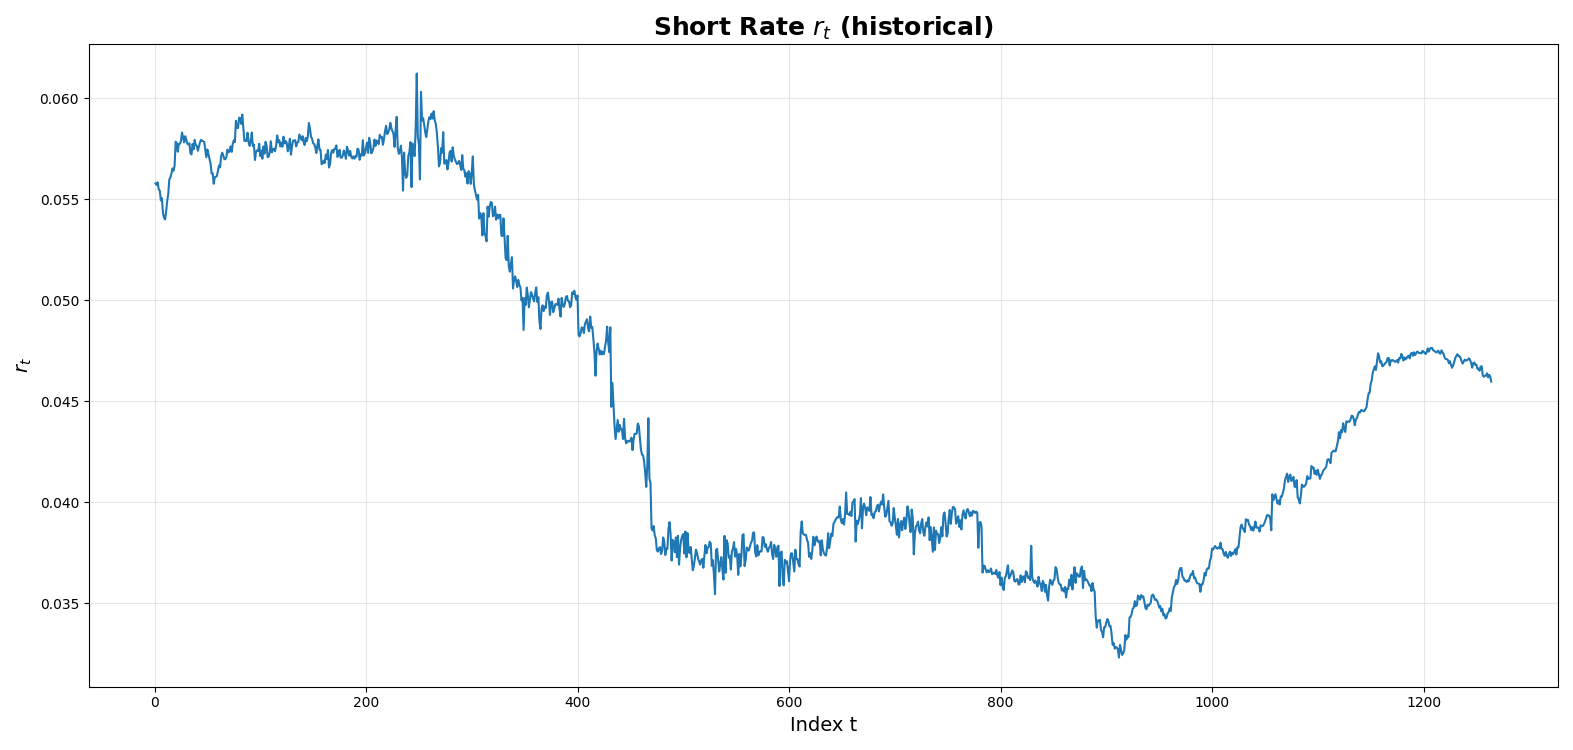
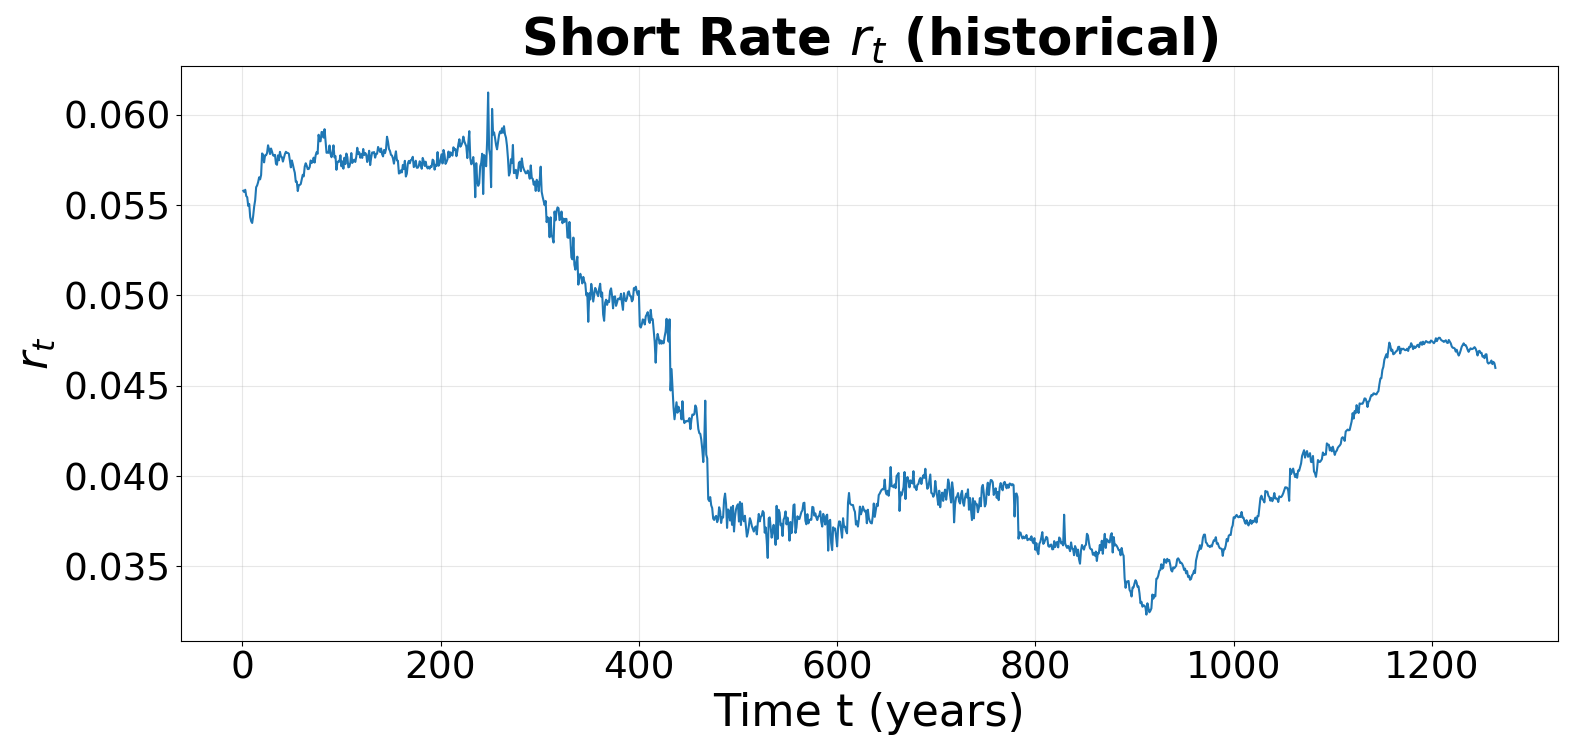
save this

diff --git a/Chapter 4/pca/drift_calculation.py b/Chapter 4/pca/drift_calculation.py
@@ -113,9 +113,15 @@ H_IN = 750  / DPI
 
 fig, ax = plt.subplots(figsize=(W_IN, H_IN), dpi=DPI)
 rHist.loc[common_t].plot(ax=ax, lw=1.5)
-ax.set_title("Short Rate $r_t$ (historical)", fontsize=18, fontweight="bold")
-ax.set_xlabel("Index t", fontsize=14)
-ax.set_ylabel(r"$r_t$", fontsize=14)
+ax.set_title("Short Rate $r_t$ (historical)", fontsize=37, fontweight="bold")
+
+TICK_FS = 27
+ax.tick_params(axis="both", which="major", labelsize=TICK_FS)
+ax.tick_params(axis="both", which="minor", labelsize=TICK_FS)
+ax.xaxis.get_offset_text().set_size(TICK_FS)
+ax.yaxis.get_offset_text().set_size(TICK_FS)
+ax.set_xlabel("Time t (years)", fontsize=32)
+ax.set_ylabel(r"$r_t$", fontsize=32)
 ax.grid(True, alpha=0.3)
 fig.tight_layout()
 plt.savefig("short_rate.png", dpi=DPI)
